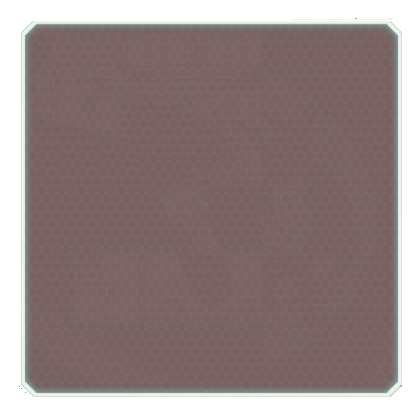
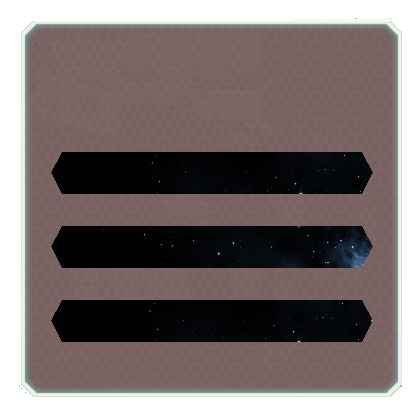
Added combat panel.

Changed region(s): [[0.1238, 0.5262, 0.8976, 0.65], [0.1238, 0.7119, 0.8976, 0.8357], [0.1238, 0.3405, 0.8976, 0.4643]]

diff --git a/src/GameObjects/Ship.cpp b/src/GameObjects/Ship.cpp
@@ -68,11 +68,6 @@ Ship::ShipInterface::ShipInterface(SDL_Renderer* renderer, Ship* parentShip)
     _combatPanel->_texture->LoadTexture("../assets/graphics/combatpanel.png");
     _combatPanel->_show = false;
 
-    _energyText = new Blank(_renderer, 340, 120, 1, 1, 4, 16, "../assets/fonts/nasalization-rg.ttf", " ");
-    _blasterPoints = new Blank(_renderer, 500, 200, 1, 1, 4, 16, "../assets/fonts/nasalization-rg.ttf", " ");
-    _shieldPenPoints = new Blank(_renderer, 500, 220, 1, 1, 4, 16, "../assets/fonts/nasalization-rg.ttf", " ");
-    _shieldPoints = new Blank(_renderer, 500, 240, 1, 1, 4, 16, "../assets/fonts/nasalization-rg.ttf", " ");
-
     _healthDisplay = new Blank(_renderer, 0, 20, 144, 60, 3);
     _shieldDisplay = new Blank(_renderer, 0, 496, 144, 60, 3);
     _statusBar = new Blank(_renderer, 212, 0, 600, 300, 3);
@@ -277,6 +272,19 @@ void Ship::ShipInterface::DeleteButtons(std::vector<Button*> buttonVector)
 
 void Ship::ShipInterface::CombatPanel()
 {
+    _parentShip->_blasterPts = 0;
+    _parentShip->_shieldPenPts = 0;
+    _parentShip->_shieldPts = 0;
+
+    _energyText = new Blank(_renderer, 340, 120, 1, 1, 4, 16, "../assets/fonts/nasalization-rg.ttf", " ");
+    _blasterPoints = new Blank(_renderer, 505, 231, 1, 1, 4, 20, "../assets/fonts/nasalization-rg.ttf", "0");
+    _shieldPenPoints = new Blank(_renderer, 505, 304, 1, 1, 4, 20, "../assets/fonts/nasalization-rg.ttf", "0");
+    _shieldPoints = new Blank(_renderer, 505, 379, 1, 1, 4, 20, "../assets/fonts/nasalization-rg.ttf", "0");
+
+    Blank* _blasterWord = new Blank(_renderer, 478, 200, 1, 1, 4, 16, "../assets/fonts/nasalization-rg.ttf", "Blasters");
+    Blank* _shieldPenWord = new Blank(_renderer, 405, 273, 1, 1, 4, 16, "../assets/fonts/nasalization-rg.ttf", "Shield Penetrating Missiles");
+    Blank* _shieldWord = new Blank(_renderer, 462, 348, 1, 1, 4, 16, "../assets/fonts/nasalization-rg.ttf", "Shield Regen");
+
     _spaceMap->_show = false;
     _combatPanel->_show = true;
     
@@ -284,8 +292,123 @@ void Ship::ShipInterface::CombatPanel()
 
     _energyText->_texture->LoadRenderedText("You have " + std::to_string(_parentShip->_energy) + " energy points to spend.");
 
-    for(int i = 0; i < 3; i++)
-    {
+    // Must initilize each member outside of a loob because otherwise lambda will not work?
+    // Yes, this is a terrible solution, but I don't have time right now man.
+    // If you find yourself here, don't mark the following code. Close your eyes.
+    Button* minus1 = new Button(_renderer, 380, 228, 32, 32, 4, "../assets/graphics/minus.png",
+                            [this]() { ModPoints(_combatButtons[0]); }, false);
 
+    Button* plus1 = new Button(_renderer, 630, 228, 32, 32, 4, "../assets/graphics/plus.png",
+                            [this]() { ModPoints(_combatButtons[1]); }, false);
+
+    Button* minus2 = new Button(_renderer, 380, 301, 32, 32, 4, "../assets/graphics/minus.png",
+                            [this]() { ModPoints(_combatButtons[2]); }, false);
+
+    Button* plus2 = new Button(_renderer, 630, 301, 32, 32, 4, "../assets/graphics/plus.png",
+                            [this]() { ModPoints(_combatButtons[3]); }, false);
+
+    Button* minus3 = new Button(_renderer, 380, 375, 32, 32, 4, "../assets/graphics/minus.png",
+                            [this]() { ModPoints(_combatButtons[4]); }, false);
+
+    Button* plus3 = new Button(_renderer, 630, 375, 32, 32, 4, "../assets/graphics/plus.png",
+                            [this]() { ModPoints(_combatButtons[5]); }, false);
+
+    _combatButtons.push_back(minus1);
+    _combatButtons.push_back(plus1);
+    _combatButtons.push_back(minus2);
+    _combatButtons.push_back(plus2);
+    _combatButtons.push_back(minus3);
+    _combatButtons.push_back(plus3);
+    // Ok, the bad code is over, open your eyes.
+
+    _fire = new Button(_renderer, 
+                        490, 430, 
+                        88, 37,
+                        4,
+                        18, "../assets/fonts/nasalization-rg.ttf", "FIRE!",
+                        [this, _blasterWord, _shieldPenWord, _shieldWord]() { _energyText->_toBeDestroyed = true;
+                                    _combatPanel->_show = false;
+                                    _blasterPoints->_toBeDestroyed = true;
+                                    _shieldPenPoints->_toBeDestroyed = true;
+                                    _shieldPoints->_toBeDestroyed = true;
+                                    _fire->_toBeDestroyed = true;
+                                    _blasterWord->_toBeDestroyed = true;
+                                    _shieldPenWord->_toBeDestroyed = true;
+                                    _shieldWord->_toBeDestroyed = true;
+
+                                    DeleteButtons(_combatButtons); }, 
+                        false);
+}
+
+void Ship::ShipInterface::ModPoints(Button* b)
+{
+    int buttonId;
+
+    for(int i = 0; i < 6; i++)
+    {
+        if(b == _combatButtons[i])
+        {
+            buttonId = i;
+        }
     }
+
+    switch(buttonId)
+    {
+    case 0: // Minus blasters
+        if(_parentShip->_blasterPts > 0)
+        {
+            _parentShip->_blasterPts--;
+            _parentShip->_energy++;
+
+            _blasterPoints->_texture->LoadRenderedText(std::to_string(_parentShip->_blasterPts));
+        }
+        break;
+    case 1: // Plus blasters
+        if(_parentShip->_energy > 0)
+        {
+            _parentShip->_blasterPts++;
+            _parentShip->_energy--;
+
+            _blasterPoints->_texture->LoadRenderedText(std::to_string(_parentShip->_blasterPts));
+        }
+        break;
+    case 2: // Minus shield pen
+        if(_parentShip->_shieldPenPts > 0)
+        {
+            _parentShip->_shieldPenPts--;
+            _parentShip->_energy++;
+
+            _shieldPenPoints->_texture->LoadRenderedText(std::to_string(_parentShip->_shieldPenPts));
+        }
+        break;
+    case 3: // Plus shield pen
+        if(_parentShip->_energy > 0)
+        {
+            _parentShip->_shieldPenPts++;
+            _parentShip->_energy--;
+
+            _shieldPenPoints->_texture->LoadRenderedText(std::to_string(_parentShip->_shieldPenPts));
+        }
+        break;
+    case 4: // Minus shield
+        if(_parentShip->_shieldPts > 0)
+        {
+            _parentShip->_shieldPts--;
+            _parentShip->_energy++;
+
+            _shieldPoints->_texture->LoadRenderedText(std::to_string(_parentShip->_shieldPts));
+        }
+        break;
+    case 5: // Plus shield
+        if(_parentShip->_energy > 0)
+        {
+            _parentShip->_shieldPts++;
+            _parentShip->_energy--;
+            
+            _shieldPoints->_texture->LoadRenderedText(std::to_string(_parentShip->_shieldPts));
+        }
+        break;
+    }
+
+    _energyText->_texture->LoadRenderedText("You have " + std::to_string(_parentShip->_energy) + " energy points to spend.");
 }

diff --git a/src/GameObjects/Ship.h b/src/GameObjects/Ship.h
@@ -34,6 +34,10 @@ public:
     void Draw() override;
     void Destroy() override;
 
+    int _shieldPenPts;
+    int _blasterPts;
+    int _shieldPts;
+
     class ShipInterface
     {
     public:
@@ -57,6 +61,7 @@ public:
     private:
 
         int Distance(int x1, int y1, int x2, int y2);
+        void ModPoints(Button* b);
 
         Ship* _parentShip;
 
@@ -70,6 +75,7 @@ public:
         Blank* _shieldPenPoints;
         Blank* _shieldPoints;
 
+        Button* _fire;
 
         Blank* _mapPanel;
         Blank* _locationNode;
@@ -94,6 +100,7 @@ public:
 
         std::vector<Button*> _mapButtons;
         std::vector<Button*> _answers;
+        std::vector<Button*> _combatButtons;
 
         Line* _lines;
     };
